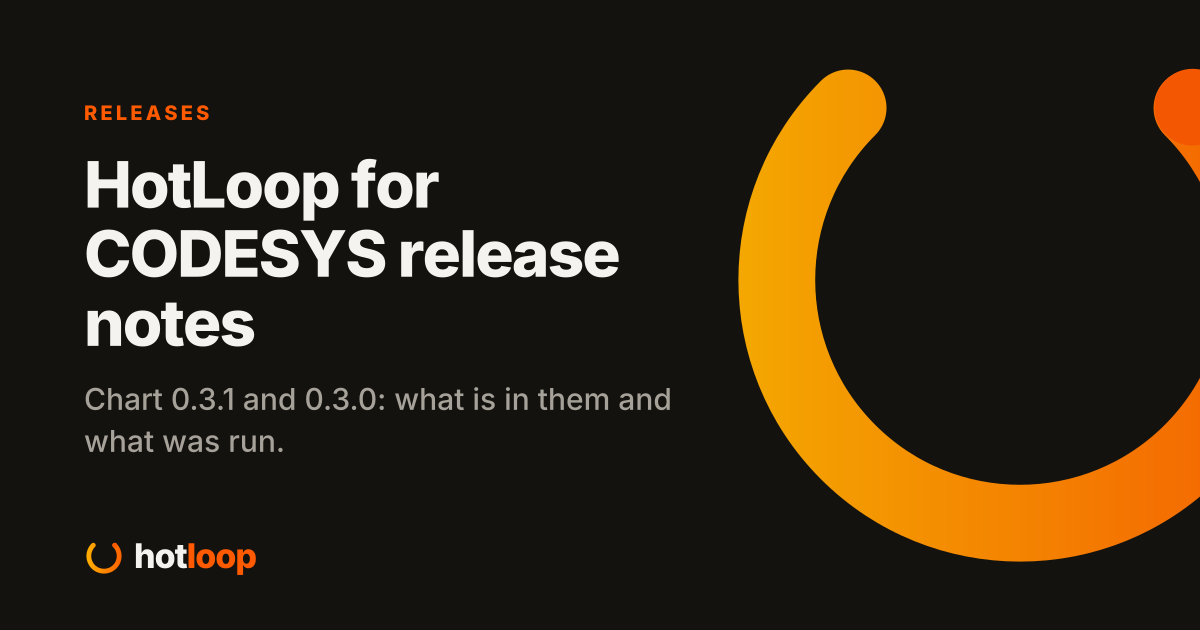
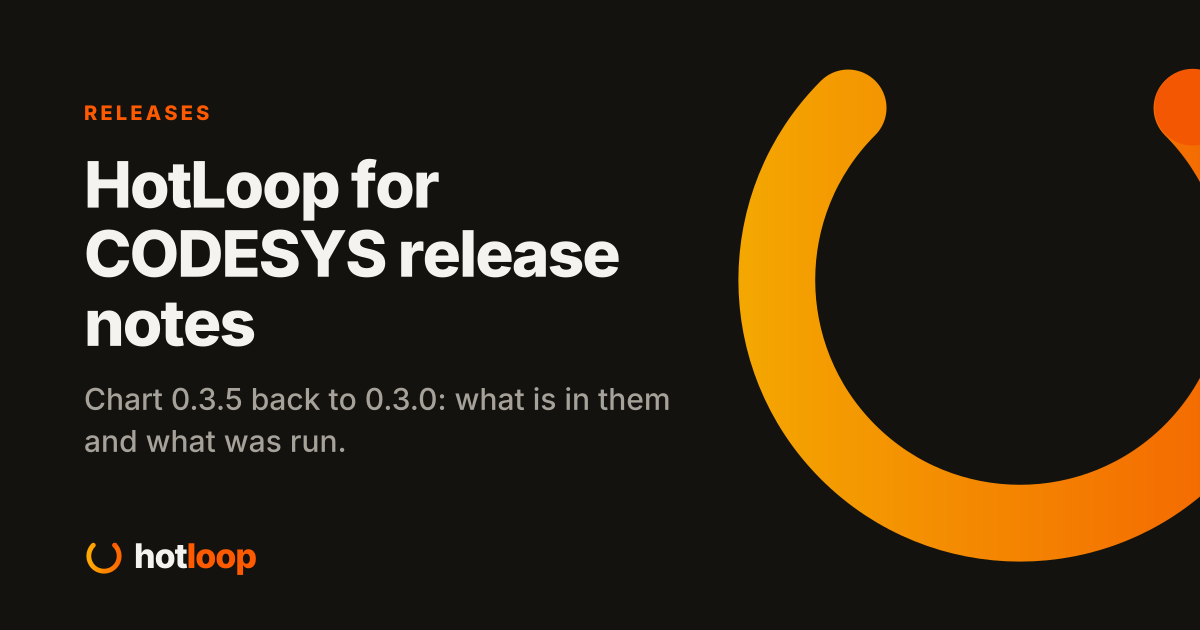
feat(codesys): hotloop for codesys chart 0.3.5 on the site, with the notes for 0.3.2 to 0.3.4, and the site check covers codesys and transmitter (#79)
The version, the HotLoop it wraps, and the release notes are 0.3.5 and 4.20.2, the cards read the constant, and Site is current now watches the CODESYS chart index and Transmitter's served files.

Changed region(s): [[0.185, 0.6032, 0.555, 0.6635], [0.0617, 0.6635, 0.2775, 0.7238]]

diff --git a/src/lib/products.ts b/src/lib/products.ts
@@ -173,13 +173,13 @@ export const TRANSMITTER = {
 
 // HotLoop for CODESYS is its own release line: a chart and a provisioner
 // (HotLoop-io/hotloop-codesys) around HotLoop Edge, for a CODESYS runtime on the same node.
-// 0.3.1 is the newest chart in the index at hotloop.io/hotloop-codesys/ (published 2026-11-05),
-// and it wraps HotLoop 4.19.4. The repository is private, the chart index and the provisioner
+// 0.3.5 is the newest chart in the index at hotloop.io/hotloop-codesys/ (published 2026-11-16),
+// and it wraps HotLoop 4.20.2. The repository is private, the chart index and the provisioner
 // image are public. The EmberCORE App Store lists it for staff. Change `version` here and in
 // the release note (src/content/releases/codesys/) when the next chart ships.
 export const CODESYS = {
-  version: '0.3.1',
-  needsCore: '4.19.4',
+  version: '0.3.5',
+  needsCore: '4.20.2',
   chart: 'hotloop-codesys',
   chartRepo: 'https://hotloop.io/hotloop-codesys/',
   image: 'ghcr.io/hotloop-io/hotloop-provision',

diff --git a/src/content/releases/codesys/0.3.5.md b/src/content/releases/codesys/0.3.5.md
@@ -1,0 +1,15 @@
+---
+product: codesys
+version: "0.3.5"
+date: 2026-11-16
+published: true
+summary: "HotLoop for CODESYS chart 0.3.5 wraps HotLoop 4.20.2, and its license annotation names the EmberNet Source License 1.0."
+highlights:
+  - "The chart wraps HotLoop 4.20.2, which carries the EtherNet/IP batch fix and the version command."
+  - "An upgrade from 0.3.4 (HotLoop 4.20.1, installed from the published index with a profile applied) to 0.3.5 was run on a node with a CODESYS Control for Linux SL 4.22.0.0 runtime on the node's network beside it. One new pod on 4.20.2 came up, the provisioner stayed on 0.3.1, and the device and its 44 tags were still there and none writable. The page answered, and the HotLoop log had no warnings or errors."
+breaking: []
+---
+
+0.3.5 is in the index at hotloop.io/hotloop-codesys/, published 2026-11-16. The chart's license annotation is the EmberNet Source License 1.0, and the HotLoop Free Use License 1.0 comes with the next chart.
+
+The provisioner reached the runtime at 4840 and was refused as an anonymous user, as that runtime is set up, so its own device stayed pending and the listener device and its tags were made, the same as with 0.3.4.

diff --git a/src/content/releases/codesys/0.3.4.md b/src/content/releases/codesys/0.3.4.md
@@ -1,0 +1,13 @@
+---
+product: codesys
+version: "0.3.4"
+date: 2026-11-16
+published: true
+summary: "HotLoop for CODESYS chart 0.3.4 wraps HotLoop 4.20.1, the release with the multi-arch images."
+highlights:
+  - "The chart wraps HotLoop 4.20.1, the release that carries the arm images the testers pull."
+  - "An upgrade from 0.3.3 (HotLoop 4.20.0, installed from the published index with a profile applied) to 0.3.4 was run with a CODESYS Control for Linux SL 4.22.0.0 runtime beside it. One new pod on 4.20.1 came up, the provisioner stayed on 0.3.1, and the device and its 44 tags were still there and none writable. The page answered, and the HotLoop log had no warnings or errors."
+breaking: []
+---
+
+0.3.4 is in the index at hotloop.io/hotloop-codesys/, published 2026-11-16. With the runtime on the node's network, the provisioner reached it at 4840 and the runtime refused it as an anonymous user, as that runtime is set up, so its own device stayed pending and the listener device and its tags were made.

diff --git a/src/content/releases/codesys/0.3.2.md b/src/content/releases/codesys/0.3.2.md
@@ -1,0 +1,16 @@
+---
+product: codesys
+version: "0.3.2"
+date: 2026-11-15
+published: true
+summary: "HotLoop for CODESYS chart 0.3.2 wraps HotLoop 4.19.11, and HotLoop takes port 8090 so it runs beside a runtime on the node's own network."
+highlights:
+  - "The chart wraps HotLoop 4.19.11 and runs the 0.3.1 provisioner."
+  - "HotLoop listens on port 8090. A runtime on the node's network holds 8080, and the scheduler refused to place HotLoop's page beside it."
+  - "The provisioner refuses a profile that puts two OPC UA PubSub listeners on one UDP port. HotLoop binds a port exclusively, so the second device sat connecting with address already in use."
+  - "Every earlier chart stays in the index."
+breaking:
+  - "HotLoop's page is on port 8090 and not 8080. Anything that pointed at 8080 on this chart moves."
+---
+
+0.3.2 is in the index at hotloop.io/hotloop-codesys/, published 2026-11-15, and the provisioner image it runs pulls with no login. It carries nothing that writes to the PLC.

diff --git a/src/content/releases/codesys/0.3.3.md b/src/content/releases/codesys/0.3.3.md
@@ -1,0 +1,13 @@
+---
+product: codesys
+version: "0.3.3"
+date: 2026-11-15
+published: true
+summary: "HotLoop for CODESYS chart 0.3.3 wraps HotLoop 4.20.0, so the new web UI and the MCP tools reach the testers."
+highlights:
+  - "The chart wraps HotLoop 4.20.0: the new web UI is the default and an agent can change everything it can read through MCP."
+  - "An upgrade from 0.3.1 (HotLoop 4.19.8, with a profile applied) to 0.3.3 was run on a node with a CODESYS Control for Linux SL 4.22.0.0 runtime beside it. One new pod on 4.20.0 came up, the devices and their 2,232 tags were still there, and the listeners connected again."
+breaking: []
+---
+
+0.3.3 is in the index at hotloop.io/hotloop-codesys/, published 2026-11-15. The provisioner is the same one 0.3.2 ran.
